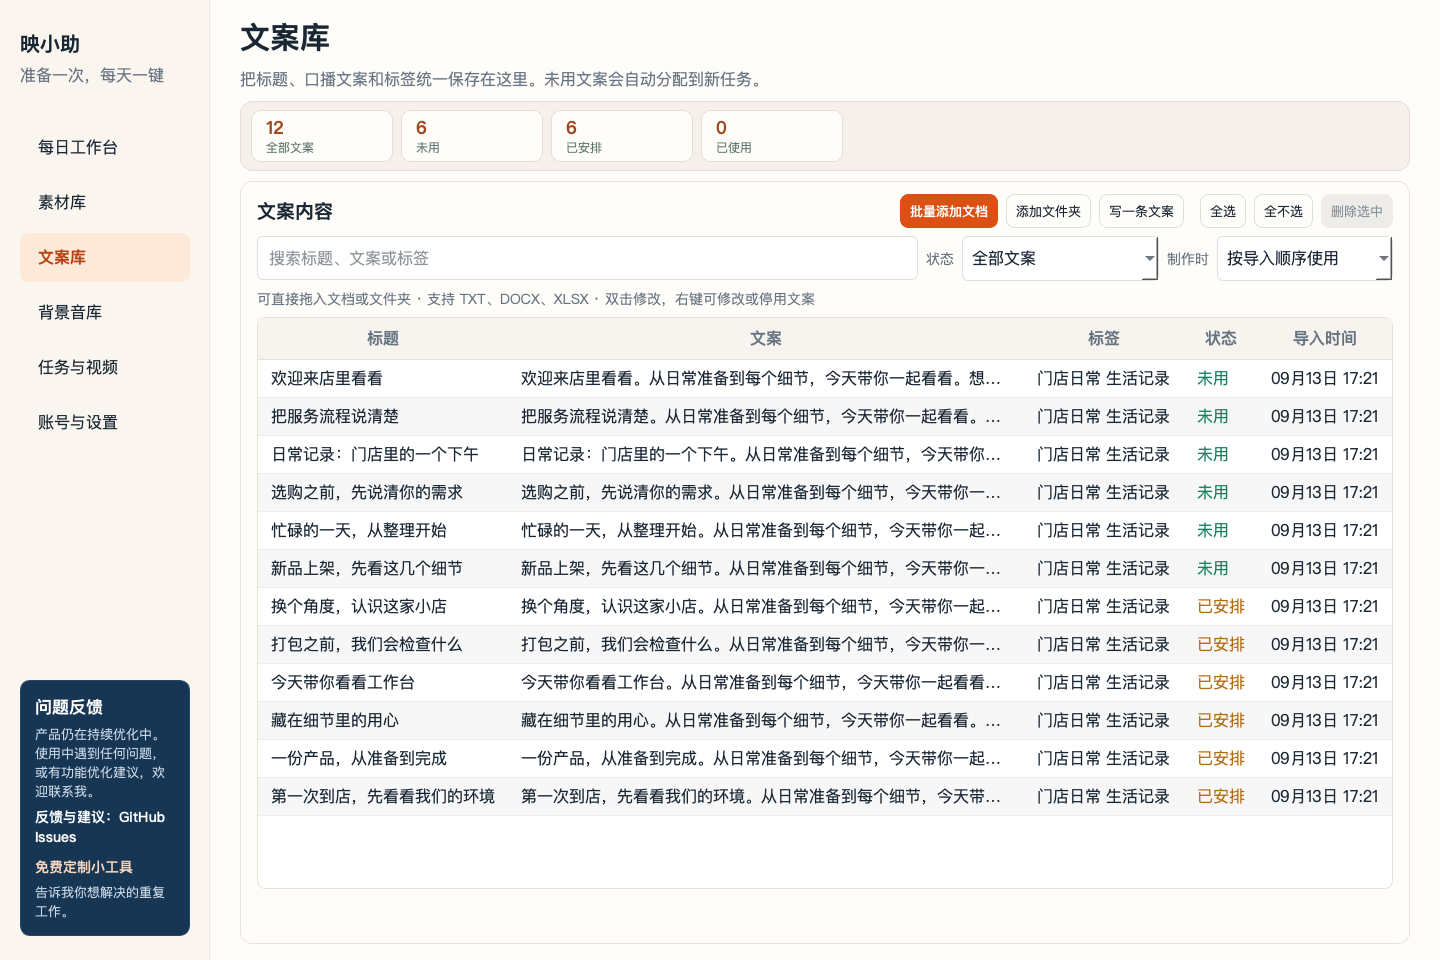
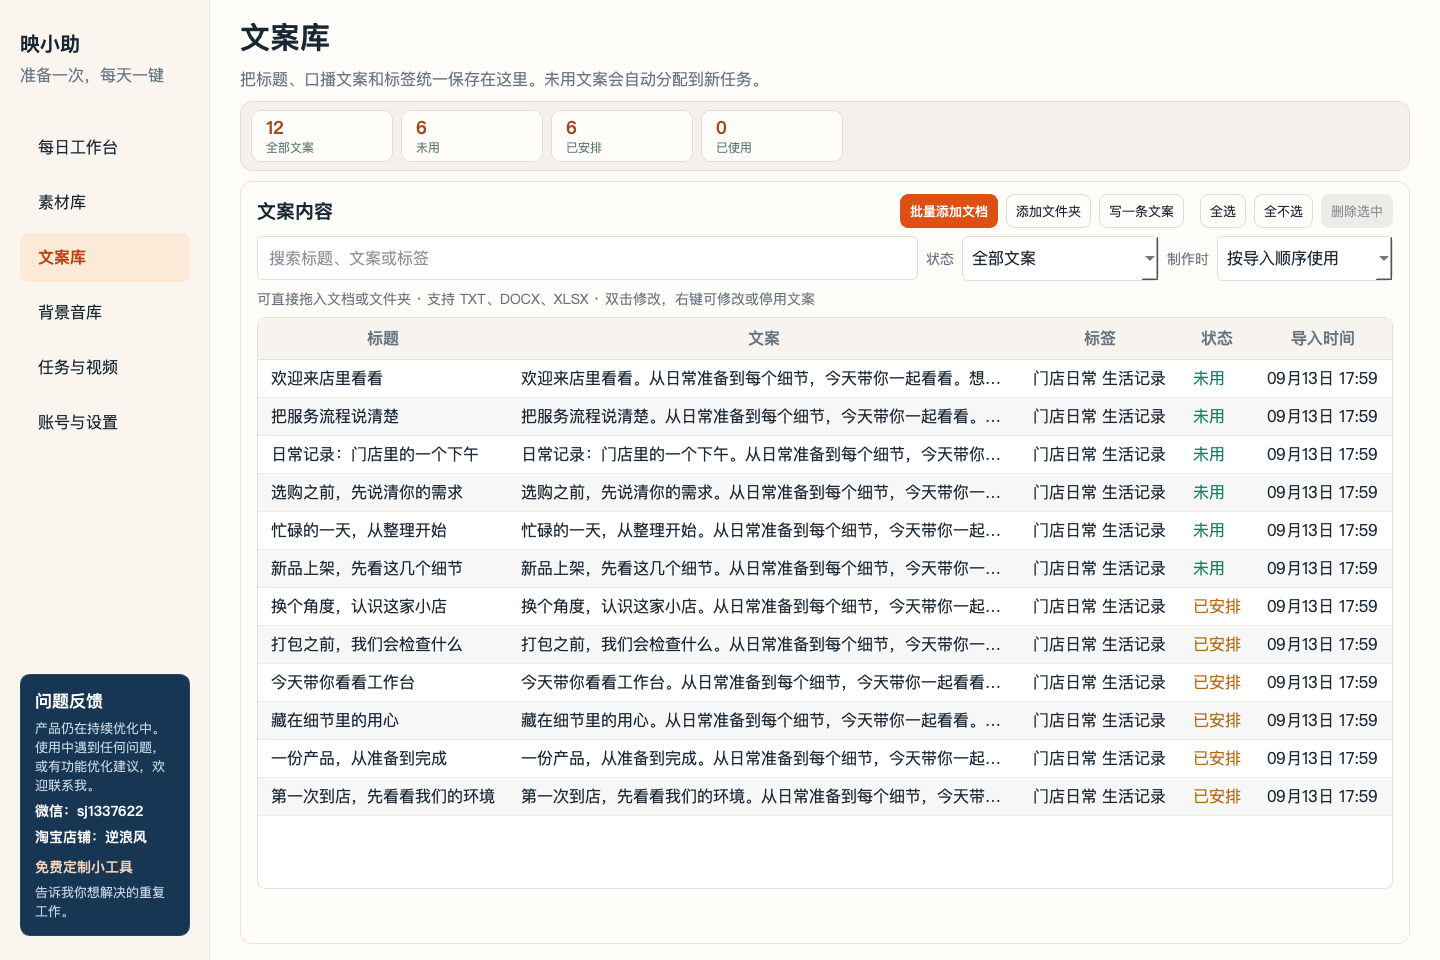
fix: restore public contact details in sidebar and screenshots

Changed region(s): [[0.7188, 0.3438, 0.9688, 0.8438], [0.0, 0.6875, 0.125, 0.875], [0.5312, 0.3438, 0.5625, 0.375]]

diff --git a/factory_video_tool/daily_ui.py b/factory_video_tool/daily_ui.py
@@ -59,7 +59,8 @@ class DailyWindow(QWidget):
         feedback=QFrame();feedback.setObjectName('feedbackCard');feedback_layout=QVBoxLayout(feedback);feedback_layout.setContentsMargins(14,14,14,14);feedback_layout.setSpacing(6)
         feedback_layout.addWidget(label('问题反馈','feedbackTitle'))
         feedback_layout.addWidget(label('产品仍在持续优化中。使用中遇到任何问题，或有功能优化建议，欢迎联系我。','feedbackBody'))
-        feedback_layout.addWidget(label('反馈与建议：GitHub Issues','feedbackContact'))
+        feedback_layout.addWidget(label('微信：sj1337622','feedbackContact'))
+        feedback_layout.addWidget(label('淘宝店铺：逆浪风','feedbackContact'))
         feedback_layout.addSpacing(4)
         feedback_layout.addWidget(label('免费定制小工具','feedbackPrompt'))
         feedback_layout.addWidget(label('告诉我你想解决的重复工作。','feedbackBody'))
